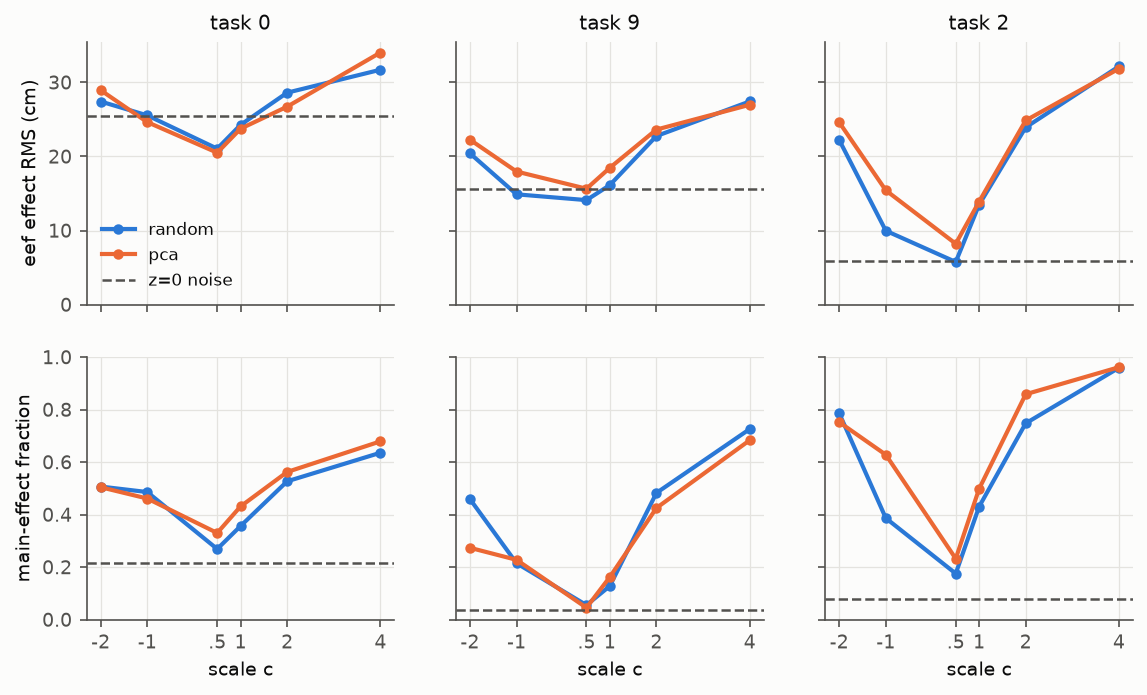
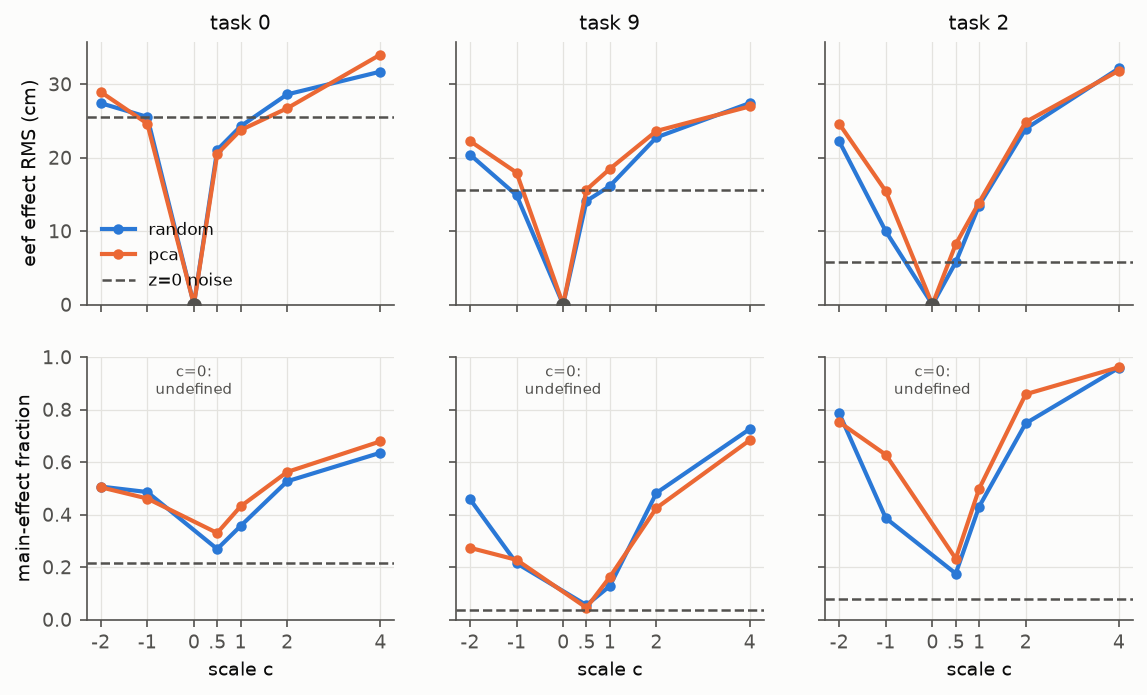
docs(results): c=0 points in grid/effect figures; flag ‖u_k‖ confound

diff --git a/research/plot_steer.py b/research/plot_steer.py
@@ -127,14 +127,16 @@ def fig_grid_success(O, out):
     fig, axs = plt.subplots(1, 3, figsize=(9, 2.8), sharey=True)
     for ax, t in zip(axs, TASKS):
         r0 = runs[t, "random"]
-        ax.axhline(r0["success"][r0["ep_z"] == 0].mean(), color=COL["zero"], ls="--", lw=1.2, label="z=0")
+        s0 = r0["success"][r0["ep_z"] == 0].mean()
+        ax.axhline(s0, color=COL["zero"], ls="--", lw=1.2, label="z=0")
         for w in WS:
             s = dir_success(runs[t, w])
-            cs = sorted({c for c, _ in s})
-            M = np.array([[s[c, k] for c in cs] for k in range(8)])
+            cs = sorted({c for c, _ in s} | {0.0})  # c=0 is z=0 for every direction
+            M = np.array([[s0 if c == 0 else s[c, k] for c in cs] for k in range(8)])
             for row in M:
                 ax.plot(cs, row, color=COL[w], lw=0.7, alpha=0.25)
             ax.plot(cs, M.mean(0), "-o", color=COL[w], ms=4, label=f"{w} (mean of 8 dirs)")
+        ax.plot(0, s0, "o", color=COL["zero"], ms=6, zorder=5)
         ax.set(title=f"task {t}", xlabel="scale c", ylim=(-0.03, 1.03))
         ax.set_xticks(cs, [f"{c:g}".replace("0.5", ".5") for c in cs])
     axs[0].set_ylabel("success rate")
@@ -154,14 +156,20 @@ def fig_effect_vs_noise(O, out):
         for w in WS:
             keys = sorted((k for k in m if k.startswith(w + ":")), key=lambda k: float(k.split(":")[1]))
             cs = [float(k.split(":")[1]) for k in keys]
-            axs[0, j].plot(cs, [m[k]["effect_rms_cm"] for k in keys], "-o", ms=4, color=COL[w], label=w)
+            # c=0: effect is exactly 0 (same noise, same z); main-effect fraction is 0/0
+            e = [m[k]["effect_rms_cm"] for k in keys]
+            i0 = int(np.searchsorted(cs, 0))
+            axs[0, j].plot(cs[:i0] + [0] + cs[i0:], e[:i0] + [0] + e[i0:], "-o", ms=4, color=COL[w], label=w)
             axs[1, j].plot(cs, [m[k]["main_effect_frac"] for k in keys], "-o", ms=4, color=COL[w], label=w)
+        axs[0, j].plot(0, 0, "o", color=COL["zero"], ms=6, zorder=5)
+        axs[1, j].annotate("c=0:\nundefined", (0, 0.86), ha="center", fontsize=7, color=COL["zero"])
         any_m = next(iter(m.values()))
         axs[0, j].axhline(any_m["noise_rms_cm"], color=COL["zero"], ls="--", lw=1.2, label="z=0 noise")
         axs[1, j].axhline(any_m["main_effect_frac_noise"], color=COL["zero"], ls="--", lw=1.2, label="z=0 noise")
         axs[0, j].set_title(f"task {t}")
         axs[1, j].set_xlabel("scale c")
-        axs[1, j].set_xticks(cs, [f"{c:g}".replace("0.5", ".5") for c in cs])
+        ticks = sorted(cs + [0.0])
+        axs[1, j].set_xticks(ticks, [f"{c:g}".replace("0.5", ".5") for c in ticks])
     axs[0, 0].set(ylabel="eef effect RMS (cm)", ylim=(0, None))
     axs[1, 0].set(ylabel="main-effect fraction", ylim=(0, 1))
     axs[0, 0].legend(loc="lower left")

diff --git a/docs/results/smolvla_steer_object.md b/docs/results/smolvla_steer_object.md
@@ -59,6 +59,9 @@ Other metrics (`hpc/grid_metrics.json`, from `research/analyze.py`):
   scale 1; positive at 2 (both signs fail the same way).
 - Which directions are harmful is shared across tasks (same random W/U): corr of per-direction
   success at |s|=2 = 0.55–0.90 between tasks.
+  **Confounded:** u_k are not normalized (‖u_k‖ = 1.86, 3.17, 2.03, 1.88, 1.94, 3.53, 2.97, 2.71),
+  and per-direction success tracks ‖u_k‖ (random W: Spearman −0.6…−0.9), so this is largely
+  "longer z hurts more". The picked u0/u4 are the two shortest. Normalize u_k in future runs.
 - Open-loop predicts closed-loop: per-direction median chunk |Δa| vs success, Spearman ρ =
   −0.6…−0.97 at scale 1–2 (pooled over tasks/W/scales ρ = −0.86).
 
@@ -183,6 +186,6 @@ Regenerate with `python -m research.plot_steer`.
    effect/noise ratio and main-effect fraction (controllability), open-loop |Δa| (budget).
    Per-init best-of-K is useless here (8 noise reps at z=0 already reach 0.9–1.0).
 
-Caveats: one W seed per scheme, d=8 and layers 7,15,23,31 fixed, libero_object only, grid on
+Caveats: u_k not normalized (see grid section), one W seed per scheme, d=8 and layers 7,15,23,31 fixed, libero_object only, grid on
 10 inits; z=0 rates differ between laptop and Sol (e.g. t9 5/8 local vs 0.81 held-out on Sol),
 so comparisons are always paired within one machine.
